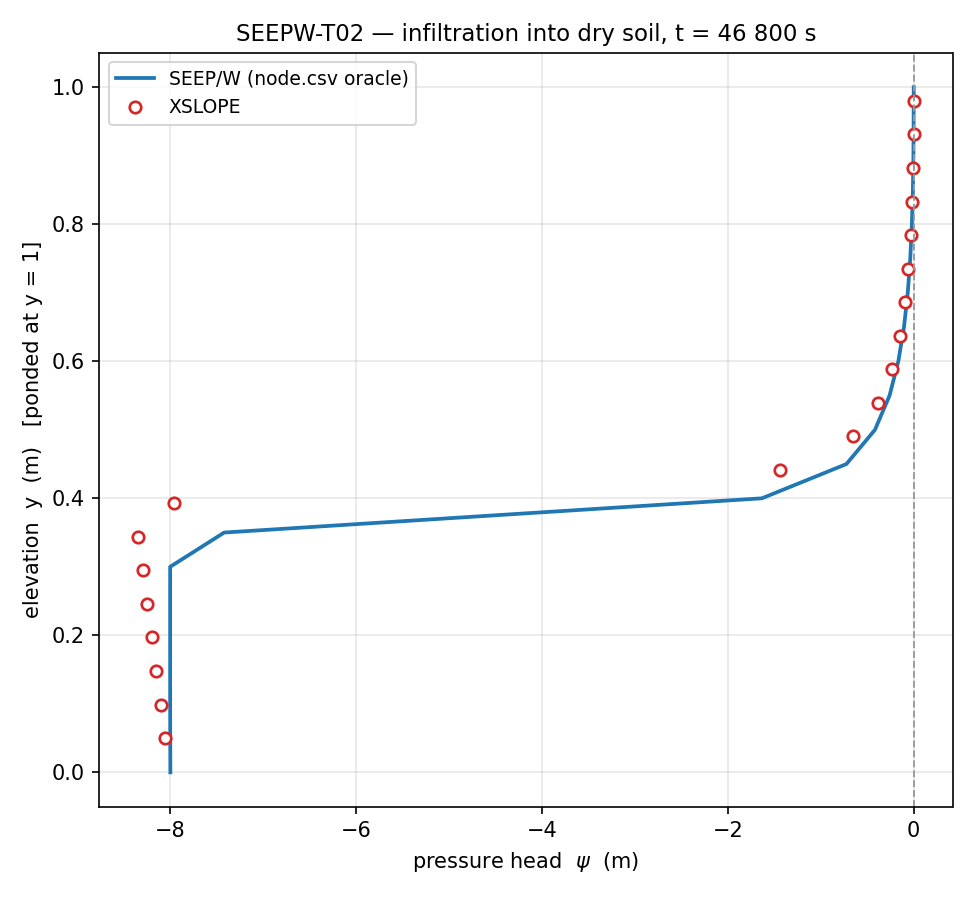
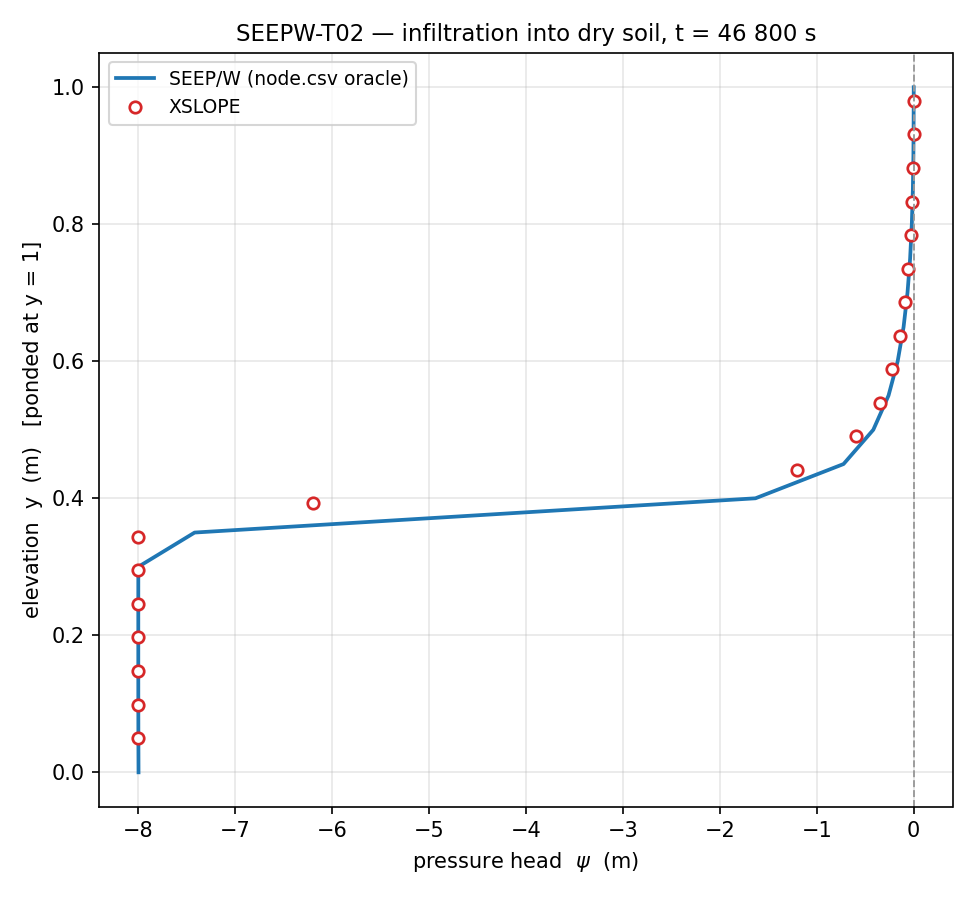
figs(seepw-t02): re-render gs2_infil after the head/reservoir BC split
The committed gs2_infil.png predates f081f43 and no longer matched what the code
renders. Bisected the drift to that commit and no other: the mesh is byte-identical
either side (695 nodes), and every candidate before it reproduces the old picture,
every candidate after it the new one.

T02 imposes its dry initial state through the repeated-time step-series idiom -- the
top boundary is a series that holds h = -7 (psi = -8 at y = 1) at t = 0 and steps to
the ponded head for t > 0. Before the split, a series head was always the
submerged-only kind, so at t = 0 the top node sat above its own water line and
converted to a seepage exit face instead of holding the suction. The column then
drained through the top and the deep dry zone overshot its own initial condition,
down to psi = -8.34 -- below anything the model can produce, since the only water
source is the pond above. A series head is now a plain Dirichlet that holds a
negative-pressure value at every node at all times, which is what this model
declares, and the dry column stays at psi = -8.00 (min -8.0014, max -7.9984 below
y = 0.30) -- on top of SEEP/W's own -8.0 node.csv profile.

Re-rendered; the render is deterministic (0 px between consecutive runs), and the
other four figures from the same maker (gs2_cons, gs2_rdd, gs2_heap, gs2_pond) are
already current -- re-rendering all five leaves them bit-identical.

The T02 prose went stale with the same commit and is corrected against the current
[…]

diff --git a/docs/verification/geostudio.md b/docs/verification/geostudio.md
@@ -1238,27 +1238,25 @@ t > 0 the top steps to the ponded head.
 The comparison is against SEEP/W's own `node.csv` pressure field at the final time (the
 published external reference is the [Warrick, Lomen & Yates (1985)](https://doi.org/10.2136/sssaj1985.03615995004900010006x) semi-analytical
 profile). XSLOPE reproduces the **wetted zone** behind the front — the physically
-meaningful, water-bearing part of the profile — to within 0.05 m of head:
+meaningful, water-bearing part of the profile — to within 0.035 m of head:
 
 | y (m) | XSLOPE ψ | SEEP/W ψ (Δ = XSLOPE − SEEP/W) |
 |---:|---:|---:|
-| 0.6 | −0.215 m | −0.166 m (−0.049 m) |
-| 0.7 | −0.082 m | −0.064 m (−0.018 m) |
-| 0.8 | −0.025 m | −0.020 m (−0.005 m) |
-| 0.9 | −0.003 m | −0.003 m (0.000 m) |
+| 0.6 | −0.199 m | −0.166 m (−0.033 m) |
+| 0.7 | −0.076 m | −0.064 m (−0.012 m) |
+| 0.8 | −0.022 m | −0.020 m (−0.003 m) |
+| 0.9 | −0.003 m | −0.003 m (+0.001 m) |
 
-The mid-front (ψ = −4 m) crossing lands at y ≈ 0.41 in XSLOPE against y ≈ 0.37 in
-SEEP/W — a ~0.04 m offset that is the expected **lumped-mass vs consistent-mass front
-diffusion**: XSLOPE uses a lumped HRZ mass matrix, which damps the front oscillations
-SEEP/W's own dry-soil write-up warns about at the cost of a slightly smeared front
-position. The deep dry zone below the front differs by up to 0.3 m of head for a
-different reason: SEEP/W holds ψ = −8 there (its explicit initial condition, essentially
-frozen since kr is tiny), where XSLOPE's steady-solve initial condition relaxes to
-hydrostatic; on the flat dry tail of the retention curve this barely changes the water
-deficit the front must fill, which is why the front position and wetted profile still
-agree. The four wetted-zone points above are locked at a 0.08 m tolerance, wider than the
-0.05 m used on the saturated groundwater page so that it carries the front-diffusion
-offset.
+Below the front the two agree to 0.002 m: both hold the dry column at its ψ = −8 m
+initial condition, which barely moves in 46 800 s because kr(ψ = −8) on the flat tail of
+the van Genuchten–Mualem curve is 1.1×10⁻⁴ of Ksat. The only visible offset is at the
+front itself. The mid-front (ψ = −4 m) crossing lands at y = 0.402 in XSLOPE against
+y = 0.380 in SEEP/W — a 0.022 m offset that is the expected **lumped-mass vs
+consistent-mass front diffusion**: XSLOPE uses a lumped HRZ mass matrix, which damps the
+front oscillations SEEP/W's own dry-soil write-up warns about at the cost of a slightly
+smeared front position. The four wetted-zone points above are locked at a 0.08 m
+tolerance, wider than the 0.05 m used on the saturated groundwater page so that it
+carries the front-diffusion offset.
 
 **Sources:** GeoStudio SEEP/W example "Verification – Infiltration into Dry Soil";
 Warrick, Lomen & Yates (1985), *Soil Sci. Soc. Am. J.* 49.
